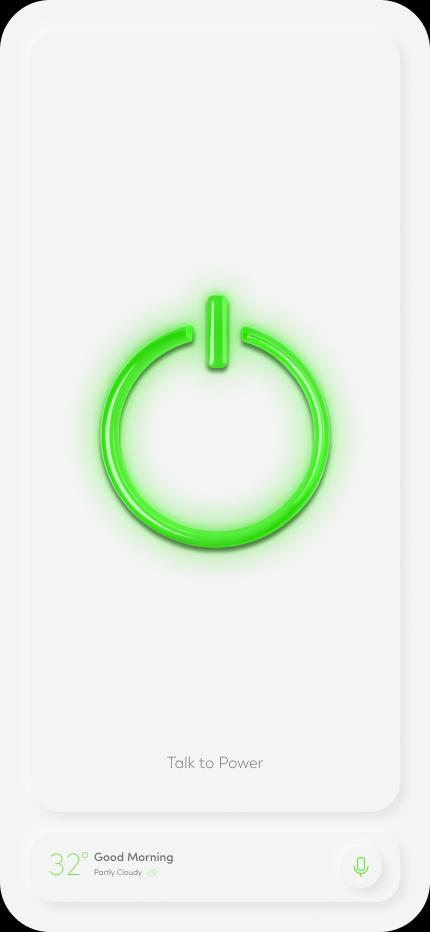
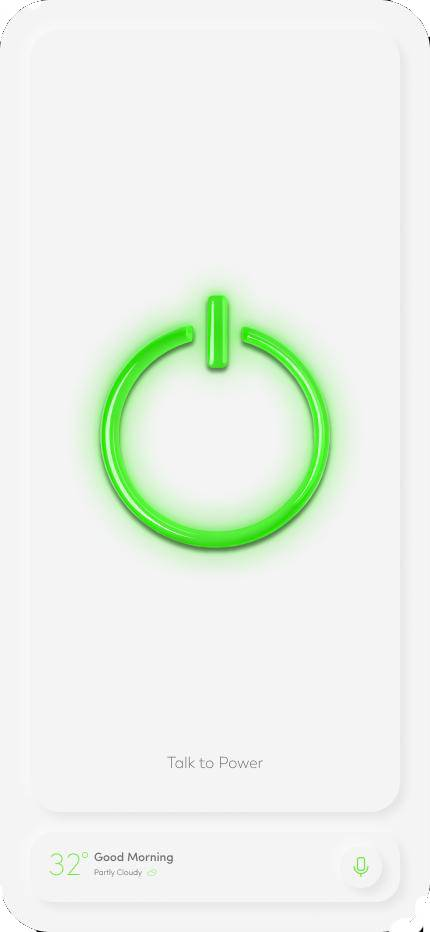
change the image positioning

diff --git a/src/app/page.tsx b/src/app/page.tsx
@@ -7,7 +7,7 @@ const EnergyLandingPage = () => {
   return (
     <div className="min-h-screen bg-[#f4f4f4]">
 {/* Hero Image Section */}
-    <div className="w-full h-[600px] relative overflow-hidden">
+    <div className="w-full h-[600px] flex mt-15 items-center justify-center relative overflow-hidden">
   {/* Background image */}
   <Image
     src="/overlay.png"
@@ -16,7 +16,7 @@ const EnergyLandingPage = () => {
     objectFit="cover"
     quality={100}
     priority
-    className="w-full h-full object-cover"
+    className="w-full h-full mt-40 object-cover"
   />
   
   {/* Gradient overlay */}

diff --git a/src/app/smart_home/page.tsx b/src/app/smart_home/page.tsx
@@ -254,7 +254,7 @@ const SmartHomePage = () => {
                 </div>
 
                 {/* Image Side */}
-                <div className="flex-1 w-full">
+                <div className="flex-1 w-full ">
                   <div className=" relative overflow-hidden rounded-2xl shadow-xlw-full md:w-2/5 max-w-[500px] mx-auto">
                                     <Image
                                       src={feature.image}
